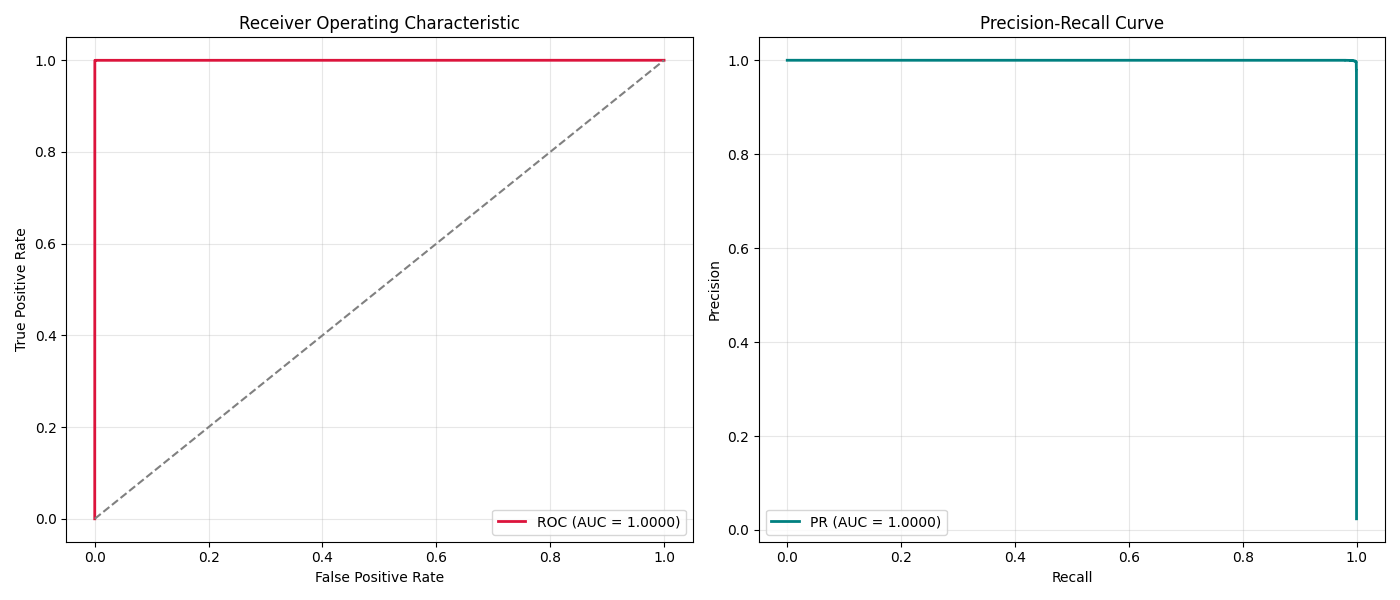
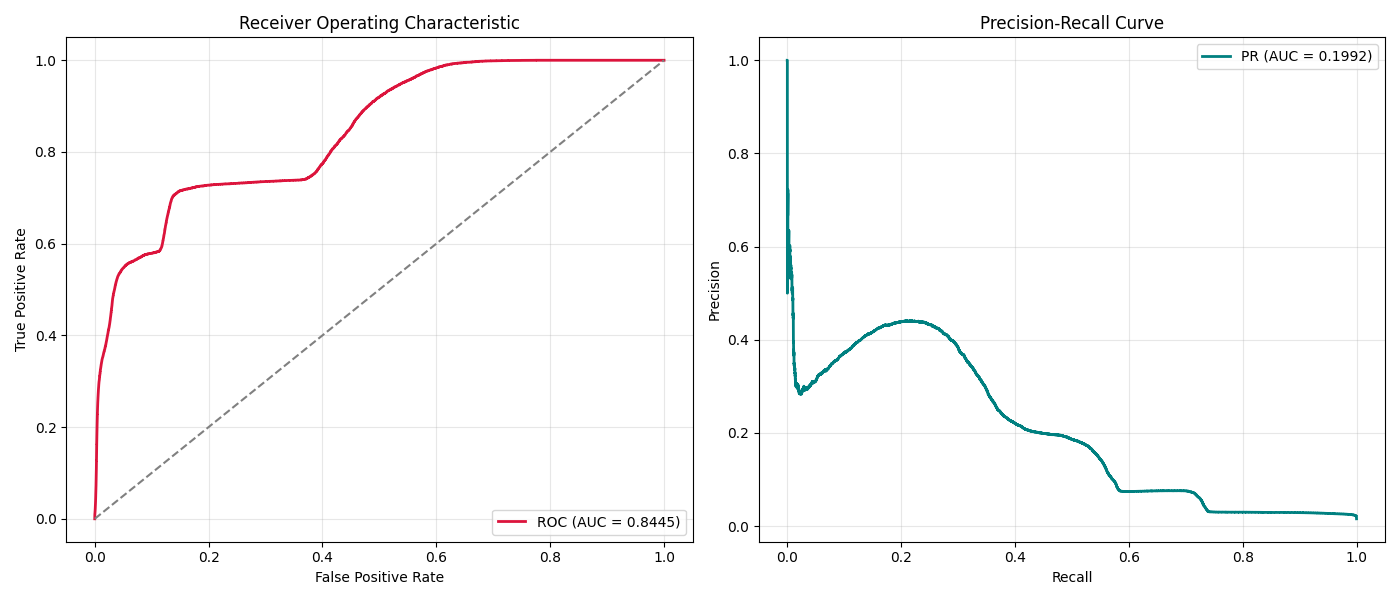
Model: Update hybrid model or smn

diff --git a/Model/hybrid_model.py b/Model/hybrid_model.py
@@ -1,12 +1,90 @@
 import torch
 import torch.nn as nn
-from convlstm_model import ConvLSTMCell
+import torch.nn.functional as F
 
 
-class ConvBlock(nn.Module):
-    def __init__(self, in_c, out_c):
-        super().__init__()
-        self.net = nn.Sequential(
+class ConvLSTMCell(nn.Module):
+    def __init__(self, input_dim, hidden_dim, kernel_size, bias):
+        super(ConvLSTMCell, self).__init__()
+        self.input_dim = input_dim
+        self.hidden_dim = hidden_dim
+        self.kernel_size = kernel_size
+        self.padding = kernel_size // 2
+        self.bias = bias
+
+        self.conv = nn.Conv2d(
+            in_channels=self.input_dim + self.hidden_dim,
+            out_channels=4 * self.hidden_dim,
+            kernel_size=self.kernel_size,
+            padding=self.padding,
+            bias=self.bias,
+        )
+
+    def forward(self, input_tensor, cur_state):
+        h_cur, c_cur = cur_state
+        combined = torch.cat([input_tensor, h_cur], dim=1)
+        combined_conv = self.conv(combined)
+        cc_i, cc_f, cc_o, cc_g = torch.split(combined_conv, self.hidden_dim, dim=1)
+
+        i = torch.sigmoid(cc_i)
+        f = torch.sigmoid(cc_f)
+        o = torch.sigmoid(cc_o)
+        g = torch.tanh(cc_g)
+
+        c_next = f * c_cur + i * g
+        h_next = o * torch.tanh(c_next)
+
+        return h_next, c_next
+
+    def init_hidden(self, batch_size, image_size):
+        height, width = image_size
+        return (
+            torch.zeros(
+                batch_size,
+                self.hidden_dim,
+                height,
+                width,
+                device=self.conv.weight.device,
+            ),
+            torch.zeros(
+                batch_size,
+                self.hidden_dim,
+                height,
+                width,
+                device=self.conv.weight.device,
+            ),
+        )
+
+
+class HybridConvLSTMUNet(nn.Module):
+    def __init__(self, in_channels, num_classes=1):
+        super(HybridConvLSTMUNet, self).__init__()
+
+        # --- Encoder (Spatial Features) ---
+        # We process each frame independently first, then fuse time
+        self.enc1 = self._conv_block(in_channels, 32)
+        self.enc2 = self._conv_block(32, 64)
+        self.pool = nn.MaxPool2d(2, 2)
+
+        # --- Temporal Bottleneck (ConvLSTM) ---
+        # The LSTM happens at a lower resolution (W/2, H/2) to save memory
+        self.conv_lstm = ConvLSTMCell(
+            input_dim=64, hidden_dim=64, kernel_size=3, bias=True
+        )
+
+        # --- Decoder (Spatial Reconstruction) ---
+        self.up2 = nn.ConvTranspose2d(64, 32, kernel_size=2, stride=2)
+        self.dec2 = self._conv_block(64, 32)  # 64 because 32 (up) + 32 (skip from enc1)
+
+        self.final_conv = nn.Conv2d(32, num_classes, kernel_size=1)
+
+        # --- Regularization ---
+        self.dropout = nn.Dropout2d(
+            p=0.3
+        )  # Drop 30% of features to prevent overfitting
+
+    def _conv_block(self, in_c, out_c):
+        return nn.Sequential(
             nn.Conv2d(in_c, out_c, 3, padding=1),
             nn.BatchNorm2d(out_c),
             nn.ReLU(inplace=True),
@@ -16,36 +94,46 @@ class ConvBlock(nn.Module):
         )
 
     def forward(self, x):
-        return self.net(x)
+        # x shape: (Batch, Seq, Chan, H, W)
+        b, seq, c, h, w = x.size()
 
+        # Initialize LSTM states
+        # Note: We pool before LSTM, so height/width is halved
+        h_t, c_t = self.conv_lstm.init_hidden(b, (h // 2, w // 2))
 
-class HybridConvLSTMUNet(nn.Module):
-    def __init__(self, in_channels, out_channels=1):
-        super().__init__()
-        self.enc1 = ConvBlock(in_channels, 32)
-        self.enc2 = ConvBlock(32, 64)
-        self.pool = nn.MaxPool2d(2)
+        # Pass each time step through Encoder -> ConvLSTM
+        # We only care about the LAST hidden state for prediction
+        # (Many-to-One architecture)
 
-        # Bottleneck ConvLSTM
-        self.bottleneck_lstm = ConvLSTMCell(64, 64, (3, 3), True)
+        skip_connection = None
 
-        self.up = nn.ConvTranspose2d(64, 32, 2, stride=2)
-        self.dec = ConvBlock(64, 32)  # 32 from up + 32 from skip
-        self.final = nn.Conv2d(32, out_channels, 1)
+        for t in range(seq):
+            xt = x[:, t, :, :, :]  # (B, C, H, W)
 
-    def forward(self, x):
-        b, t, c, h, w = x.size()
-        h_s, c_s = self.bottleneck_lstm.init_hidden(b, (h // 2, w // 2))
+            # Spatial Encode
+            e1 = self.enc1(xt)  # (B, 32, H, W)
+            e1_pool = self.pool(e1)  # (B, 32, H/2, W/2)
+            e2 = self.enc2(e1_pool)  # (B, 64, H/2, W/2)
 
-        last_skip = None
-        for step in range(t):
-            xt = x[:, step]
-            s1 = self.enc1(xt)
-            s2 = self.enc2(self.pool(s1))
-            h_s, c_s = self.bottleneck_lstm(s2, (h_s, c_s))
-            if step == t - 1:
-                last_skip = s1
+            # Capture skip connection from the LAST frame
+            if t == seq - 1:
+                skip_connection = e1
 
-        out = self.up(h_s)
-        out = torch.cat([out, last_skip], dim=1)
-        return self.final(self.dec(out))
+            # Temporal Update
+            h_t, c_t = self.conv_lstm(e2, (h_t, c_t))
+
+        # h_t is now the spatio-temporal embedding of the sequence
+        # Shape: (B, 64, H/2, W/2)
+
+        # Apply Dropout to the bottleneck!
+        h_t = self.dropout(h_t)
+
+        # --- Decoder ---
+        d2 = self.up2(h_t)  # (B, 32, H, W)
+
+        # Concatenate with skip connection from the last input frame
+        d2 = torch.cat([d2, skip_connection], dim=1)  # (B, 64, H, W)
+        d2 = self.dec2(d2)  # (B, 32, H, W)
+
+        out = self.final_conv(d2)  # (B, 1, H, W)
+        return out

diff --git a/Model/data_utils_hybrid.py b/Model/data_utils_hybrid.py
@@ -35,7 +35,7 @@ class FireHybridDataset(Dataset):
         X_tensor = torch.from_numpy(X_seq).float()
         Y_tensor = torch.from_numpy(Y_data).float().unsqueeze(0)
 
-        # Pad to 16-pixel divisibility
+        # Dynamic Padding (Crucial for Spatial Split where dims might change)
         _, _, h, w = X_tensor.shape
         pad_h = (16 - h % 16) % 16
         pad_w = (16 - w % 16) % 16
@@ -46,11 +46,10 @@ class FireHybridDataset(Dataset):
         return X_tensor, Y_tensor
 
 
-def load_hybrid_data(batch_size=32, seq_len=3, lead_time=1):
+def load_hybrid_data(batch_size=32, seq_len=3, lead_time=1, split_mode="spatial"):
     print("Loading NetCDF...")
     with xr.open_dataset(INPUT_NC_PATH, engine="h5netcdf") as ds:
-        # --- CRITICAL: LEAKAGE PREVENTION ---
-        # Explicitly filter out ANY variable that sounds like 'fire', 'thermal', or 'modis'
+        # Strict Leakage Prevention
         all_vars = list(ds.data_vars)
         feature_vars = [
             v
@@ -61,13 +60,14 @@ def load_hybrid_data(batch_size=32, seq_len=3, lead_time=1):
             )
         ]
 
-        print(f"CLEAN Features: {feature_vars}")
+        print(f"Features: {feature_vars}")
 
+        # Load Full Block
         data_block = ds[feature_vars].to_array(dim="channel").values
         data_block = np.transpose(data_block, (1, 0, 2, 3)).astype(np.float32)
         target_block = ds["MODIS_FIRE_T1"].values.astype(np.float32)
 
-    # Normalization
+    # Stats Calculation
     if os.path.exists(CACHE_PATH):
         with open(CACHE_PATH, "rb") as f:
             stats = pickle.load(f)
@@ -79,31 +79,62 @@ def load_hybrid_data(batch_size=32, seq_len=3, lead_time=1):
         with open(CACHE_PATH, "wb") as f:
             pickle.dump(stats, f)
 
+    # Normalize
     data_block = (data_block - stats["mean"]) / (stats["std"] + 1e-6)
 
-    # Splits
-    total_steps = data_block.shape[0]
-    all_indices = np.arange(seq_len - 1, total_steps - lead_time)
-    split_point = int(len(all_indices) * 0.8)
+    # --- SPATIAL SPLIT LOGIC ---
+    if split_mode == "spatial":
+        print("\nPerforming SPATIAL SPLIT (North/South)...")
+        _, _, H, W = data_block.shape
+        split_h = int(H * 0.80)  # 80% Top for Train, 20% Bottom for Val
 
-    # Large gap to prevent temporal autocorrelation leakage
-    gap = 20
-    train_indices = all_indices[:split_point]
-    val_indices = all_indices[split_point + gap :]
+        print(f"Original Height: {H} -> Split Line: {split_h}")
 
+        # Slice the GEOGRAPHY, keep all TIME
+        # Train: Top Part
+        train_data = data_block[:, :, :split_h, :]
+        train_target = target_block[:, :split_h, :]
+
+        # Val: Bottom Part
+        val_data = data_block[:, :, split_h:, :]
+        val_target = target_block[:, split_h:, :]
+
+        # Use almost all time steps (minus sequence buffer)
+        total_steps = data_block.shape[0]
+        # Common indices for both (since we split space, not time)
+        indices = np.arange(seq_len - 1, total_steps - lead_time)
+
+        # Use same time indices for both, but different spatial regions
+        train_ds = FireHybridDataset(
+            train_data, train_target, indices, seq_len, lead_time
+        )
+        val_ds = FireHybridDataset(val_data, val_target, indices, seq_len, lead_time)
+
+        print(f"Train Region: 0-{split_h} (Rows) | Val Region: {split_h}-{H} (Rows)")
+
+    else:
+        # Fallback to Temporal Split (Old Method)
+        print("\nPerforming TEMPORAL SPLIT...")
+        total_steps = data_block.shape[0]
+        all_indices = np.arange(seq_len - 1, total_steps - lead_time)
+        split_point = int(len(all_indices) * 0.8)
+        gap = 20
+        train_indices = all_indices[:split_point]
+        val_indices = all_indices[split_point + gap :]
+
+        train_ds = FireHybridDataset(
+            data_block, target_block, train_indices, seq_len, lead_time
+        )
+        val_ds = FireHybridDataset(
+            data_block, target_block, val_indices, seq_len, lead_time
+        )
+
+    # DataLoaders
     train_loader = DataLoader(
-        FireHybridDataset(data_block, target_block, train_indices, seq_len, lead_time),
-        batch_size=batch_size,
-        shuffle=True,
-        num_workers=4,
-        pin_memory=True,
+        train_ds, batch_size=batch_size, shuffle=True, num_workers=4, pin_memory=True
     )
     val_loader = DataLoader(
-        FireHybridDataset(data_block, target_block, val_indices, seq_len, lead_time),
-        batch_size=batch_size,
-        shuffle=False,
-        num_workers=4,
-        pin_memory=True,
+        val_ds, batch_size=batch_size, shuffle=False, num_workers=4, pin_memory=True
     )
 
     return train_loader, val_loader, len(feature_vars)

diff --git a/Model/train_hybrid.py b/Model/train_hybrid.py
@@ -53,7 +53,7 @@ train_loader, val_loader, in_dims = load_hybrid_data(
 )
 
 model = HybridConvLSTMUNet(in_dims).cuda()
-optimizer = torch.optim.Adam(model.parameters(), lr=LR)
+optimizer = torch.optim.Adam(model.parameters(), lr=LR, weight_decay=1e-4)
 # POS_WEIGHT needs to be consistent with AMP (handled automatically usually, but good to check)
 bce_criterion = nn.BCEWithLogitsLoss(pos_weight=torch.tensor([POS_WEIGHT]).cuda())
 scaler = GradScaler()  # Initialize Mixed Precision Scaler
